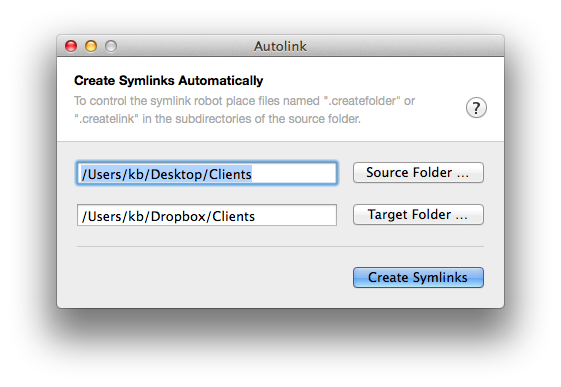
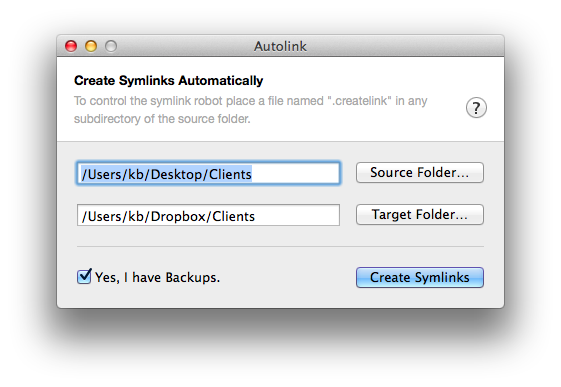
New (simpler) algorithm and workflow

diff --git a/source/Autolink/UBRAutolinkWindowController.m b/source/Autolink/UBRAutolinkWindowController.m
@@ -131,6 +131,7 @@
         [self.progressBar setIndeterminate:FALSE];
         [self.doneButton setTitle:@"Done"];
         [self.doneButton setEnabled:TRUE];
+        [self.window endSheet:self.progressWindow];
 
     }
 
@@ -154,66 +155,50 @@
 
 
 
-- (void)syncSourceFolder:(NSURL *)currentSourceFolder withTargetFolder:(NSURL *)currentTargetFolder {
+
+- (void)syncSourceFolder:(NSURL *)sourceFolderURL withTargetFolder:(NSURL *)targetFolderURL {
     
     NSFileManager * fm = [NSFileManager defaultManager];
-    
-    NSDirectoryEnumerator * dirEnumerator = [fm enumeratorAtURL:currentSourceFolder
+    NSArray * sourceFolderComp = [sourceFolderURL pathComponents];
+    NSDirectoryEnumerator * dirEnumerator = [fm enumeratorAtURL:sourceFolderURL
                                      includingPropertiesForKeys:@[NSURLNameKey, NSURLIsDirectoryKey]
-                                                        options:NSDirectoryEnumerationSkipsPackageDescendants |
-                                             NSDirectoryEnumerationSkipsSubdirectoryDescendants
+                                                        options:NSDirectoryEnumerationSkipsPackageDescendants
                                                    errorHandler:nil];
+    
     
     for (NSURL * fileURL in dirEnumerator) {
         
-        BOOL hasCreateFolderToken, hasCreateLinkToken;
-        hasCreateFolderToken = [fm fileExistsAtPath: [[fileURL URLByAppendingPathComponent:@".createfolder" isDirectory:0] path]];
-        hasCreateLinkToken = [fm fileExistsAtPath: [[fileURL URLByAppendingPathComponent:@".createlink" isDirectory:0] path]];
-
-        if (hasCreateFolderToken) {
-            NSURL * newFolder = [self createFolder:fileURL.lastPathComponent atTargetURL:currentTargetFolder];
-            if (newFolder) {
-                [self syncSourceFolder:fileURL withTargetFolder:newFolder];
+        BOOL createLink = [[fileURL lastPathComponent] isEqualToString:@".createlink"];
+        if (createLink) {
+            
+            NSError * error;
+            NSUInteger srcCount = sourceFolderComp.count;
+            NSUInteger thisCount = fileURL.pathComponents.count;
+            NSArray * thisFolderComp = [fileURL.pathComponents subarrayWithRange:NSMakeRange(srcCount, thisCount-srcCount-2)];
+            
+            // Create New Target Folder
+            NSArray * newFolderComp = [targetFolderURL.pathComponents arrayByAddingObjectsFromArray:thisFolderComp];
+            NSURL * newFolderURL = [NSURL fileURLWithPathComponents:newFolderComp];
+            [fm createDirectoryAtURL:newFolderURL withIntermediateDirectories:TRUE attributes:nil error:&error];
+            if (error) {
+                NSLog(@"Autolink could not create folder: %@", newFolderURL);
             }
-        } else if (hasCreateLinkToken) {
-            [self createLink:fileURL.lastPathComponent atTargetURL:currentTargetFolder destination:fileURL];
+
+            // Create Symlink
+            NSString * symlink = fileURL.pathComponents[thisCount-2];
+            NSURL * symLinkURL = [newFolderURL URLByAppendingPathComponent:symlink];
+            NSURL * destionationURL = [fileURL URLByDeletingLastPathComponent];
+            
+            if (![fm fileExistsAtPath:symLinkURL.path]) {
+                [fm createSymbolicLinkAtURL:symLinkURL withDestinationURL:destionationURL error:&error];
+                if (error) {
+                    NSLog(@"Autolink could not create symlink: %@", symLinkURL);
+                }
+            }
+            
+            
         }
         
-    }
-
-}
-
-
-- (NSURL *)createFolder:(NSString *)name atTargetURL:(NSURL *)targetFolder {
-
-    NSFileManager * fm = [NSFileManager defaultManager];
-    NSURL * newFolder = [targetFolder URLByAppendingPathComponent:name isDirectory:TRUE];
-    NSError * error;
-    
-    [fm createDirectoryAtURL:newFolder withIntermediateDirectories:TRUE attributes:nil error:&error];
-    
-    if (!error) {
-        return newFolder;
-    } else {
-        return nil;
-    }
-
-}
-
-
-
-- (NSURL *)createLink:(NSString *)name atTargetURL:(NSURL *)targetFolder destination:(NSURL *)destination {
-    
-    NSFileManager * fm = [NSFileManager defaultManager];
-    NSURL * symLinkURL = [targetFolder URLByAppendingPathComponent:name isDirectory:TRUE];
-    NSError * error;
-    
-    [fm createSymbolicLinkAtURL:symLinkURL withDestinationURL:destination error:&error];
-    
-    if (!error) {
-        return symLinkURL;
-    } else {
-        return nil;
     }
     
 }
@@ -231,6 +216,7 @@
     for (NSURL * fileURL in dirEnumerator.allObjects.reverseObjectEnumerator) {
         NSDictionary * attr = [fm attributesOfItemAtPath:fileURL.path error:nil];
         if (attr[NSFileType] == NSFileTypeSymbolicLink) {
+            [fm removeItemAtURL:fileURL error:nil];
         } else if (attr[NSFileType] == NSFileTypeDirectory) {
             NSArray * content = [fm contentsOfDirectoryAtPath:fileURL.path error:nil];
             if (content && content.count == 0) {

diff --git a/source/Autolink/UBRAutolinkWindowController.h b/source/Autolink/UBRAutolinkWindowController.h
@@ -21,6 +21,7 @@
 @property (strong) IBOutlet NSWindow *progressWindow;
 @property (weak) IBOutlet NSProgressIndicator *progressBar;
 @property (weak) IBOutlet NSButton *doneButton;
+@property (assign) BOOL userHasBackups;
 
 
 @end

diff --git a/README.md b/README.md
@@ -7,11 +7,8 @@ An OS X Utility App to selectively mirror a file structure via symlinks and fold
 
 ## Usage
 
-You can only mirror folders. Files have to be in a folder you mirror via a symlink. If you want to create a folder at the target destination or an symbolic link is controlled with the hidden files `.createfolder` and `.createlink`.
-
-Why mirroring folders? You use folders to give the target folder more structure, because once you symlinked a folder there is no way to selectively sync inside this folder anymore.
-
-If you choose to create a folder all direct subfolders will be scanned for hidden files so those subfolders can end up in the target folder as symlinks or folders to.
+Select a source and a target folder. Than place hidden files named ".createlink" in any subdirectory of the source folder.
+The app will scan for those files and accordingly creates a structure of folders and symlinks.
 
 ## Example
 
